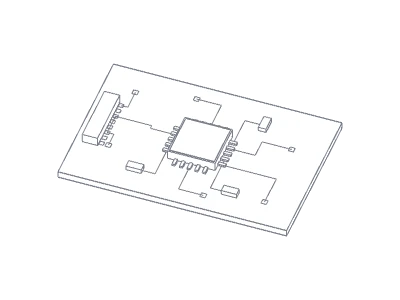
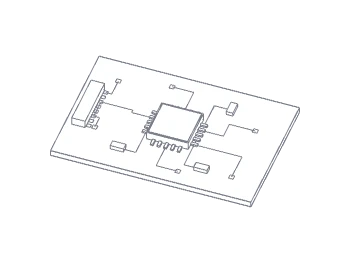
Match the desktop poster to the 1440 hero box and color via lines via named ancestors.
The 1x/2x webp is now 350×263 / 700×526 so it is 1:1 with the 1440 3D box. Accent materials walk up to track-accent / via-* after quantization wraps meshes.

diff --git a/src/three/hero3d.ts b/src/three/hero3d.ts
@@ -72,6 +72,15 @@ function isLine(obj: Object3D): obj is Object3D & { isLine: true; material: unkn
   return Boolean(rec.isLine || rec.isLineSegments)
 }
 
+function isAccentNode(obj: Object3D) {
+  let node: Object3D | null = obj
+  while (node) {
+    if (node.name === 'track-accent' || node.name.startsWith('via-')) return true
+    node = node.parent
+  }
+  return false
+}
+
 export function applyHeroPose(root: Object3D, p: number) {
   const ys = poseYs(p)
   const showAccent = p >= 0.5
@@ -113,11 +122,7 @@ export function bindHeroMaterials(root: Object3D, accent: Color) {
   })
   root.traverse((obj) => {
     if (isMesh(obj)) obj.material = fill
-    if (isLine(obj)) {
-      const named = obj.name.startsWith('via-') || obj.name === 'track-accent'
-      const parent = obj.parent?.name === 'track-accent'
-      obj.material = named || parent ? accentMat : ink
-    }
+    if (isLine(obj)) obj.material = isAccentNode(obj) ? accentMat : ink
   })
   applyHeroPose(root, 0)
   return { fill, ink, accent: accentMat }

diff --git a/e2e/hero-3d.spec.ts b/e2e/hero-3d.spec.ts
@@ -286,7 +286,7 @@ async function seekProgress(page: Page, progress: number) {
     const span = Math.max(1, hero.offsetHeight - window.innerHeight * 0.35)
     window.scrollTo(0, top + p * span)
   }, progress)
-  await page.waitForTimeout(800)
+  await page.waitForTimeout(1000)
 }
 
 async function screenshotCanvas(page: Page) {
@@ -329,8 +329,8 @@ test.describe('hero B desktop 3d', () => {
     await expect(preload).toHaveAttribute('media', PRELOAD_MEDIA)
     await expect(preload).toHaveAttribute('fetchpriority', 'high')
     const img = page.locator('.hero-3d-poster')
-    await expect(img).toHaveAttribute('width', '400')
-    await expect(img).toHaveAttribute('height', '300')
+    await expect(img).toHaveAttribute('width', '350')
+    await expect(img).toHaveAttribute('height', '263')
     await expect(img).toHaveAttribute('alt', '')
     await expect(img).toHaveAttribute('fetchpriority', 'high')
   })

diff --git a/scripts/render-hero-poster.html b/scripts/render-hero-poster.html
@@ -44,9 +44,16 @@
     })
     root.traverse((obj) => {
       if (obj.isMesh) obj.material = fill
-      if (obj.isLineSegments) {
-        const accented = obj.name.startsWith('via-') || obj.name === 'track-accent'
-          || (obj.parent && obj.parent.name === 'track-accent')
+      if (obj.isLine || obj.isLineSegments) {
+        let node = obj
+        let accented = false
+        while (node) {
+          if (node.name === 'track-accent' || node.name.startsWith('via-')) {
+            accented = true
+            break
+          }
+          node = node.parent
+        }
         obj.material = accented ? accent : ink
       }
     })

diff --git a/src/components/visuals/HeroVisual.tsx b/src/components/visuals/HeroVisual.tsx
@@ -11,8 +11,8 @@ const DRAWING_SUBJECT = {
 
 const HERO_POSTER_PATH = document.documentElement.classList.contains('is-hero-poster')
 
-const POSTER_W = 400
-const POSTER_H = 300
+const POSTER_W = 350
+const POSTER_H = 263
 
 export function HeroVisual() {
   const { locale } = useI18n()
